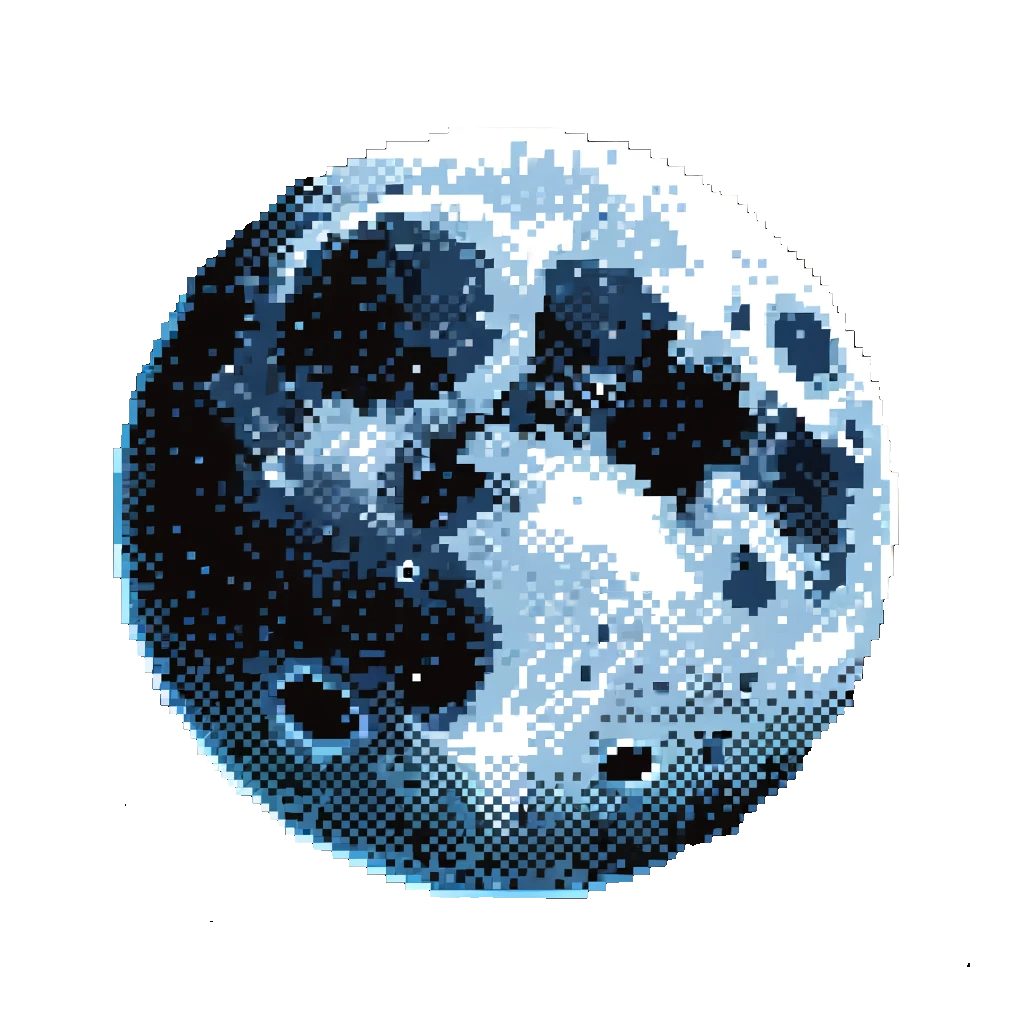
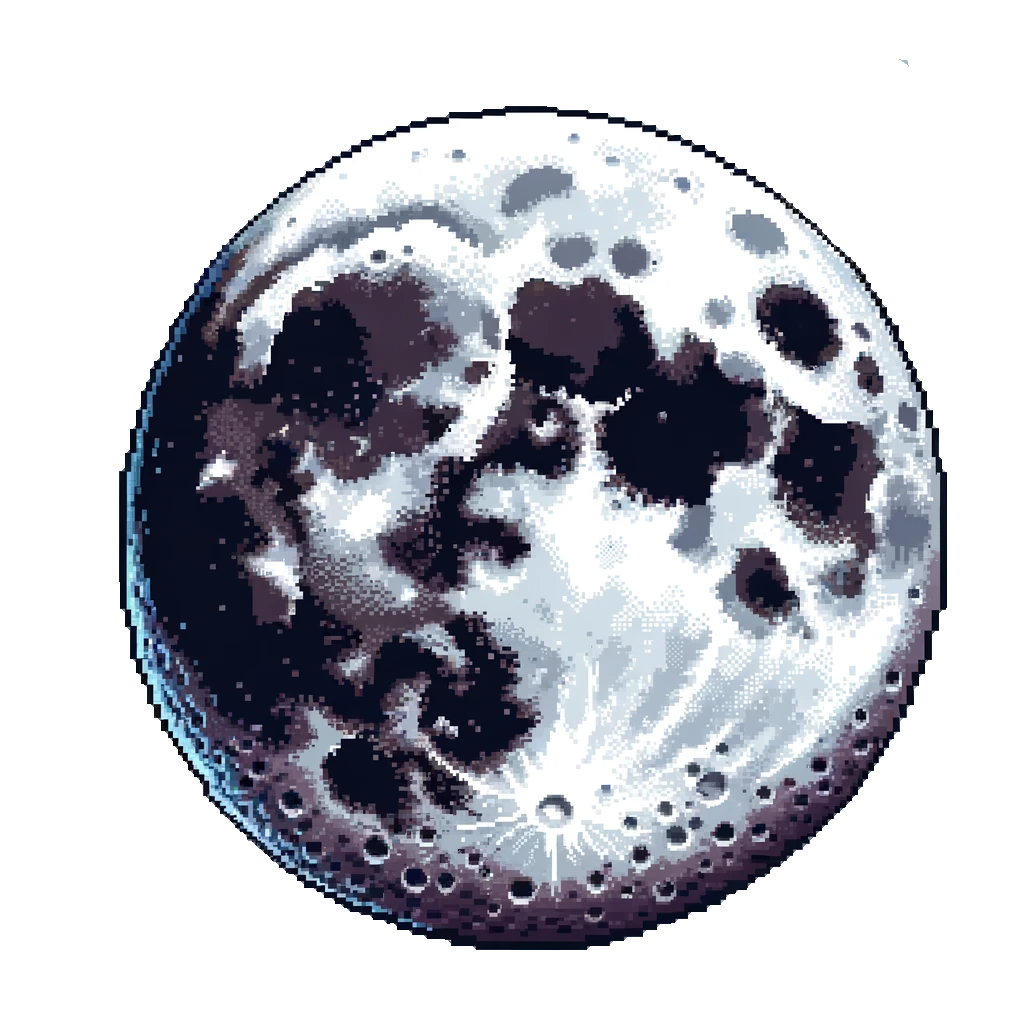
added alienShip v2 to assets / +moon v2

diff --git a/assets/js/game.js b/assets/js/game.js
@@ -15,34 +15,35 @@ function create() {
     background2 = this.add.tileSprite(0, 0, window.innerWidth, window.innerHeight, 'background2').setOrigin(0, 0).setDepth(-3);
 
     // Earth
-    let earthX = window.innerWidth * 0.5; 
-    let earthY = window.innerHeight * 0.5;
+    let earthX = window.innerWidth * 0.47; 
+    let earthY = window.innerHeight * 0.65;
     this.earth = this.add.image(earthX, earthY, 'earth');
-    this.earth.setScale(0.34567);
+    this.earth.setScale(0.345);
     this.earth.setDepth(-3);
-
-    // Moon (initially off-screen)
-    let moonX = window.innerWidth + 100; // Start off-screen to the right
-    let moonY = window.innerHeight * 0.5;
-    this.moon = this.add.image(moonX, moonY, 'moon');
-    this.moon.setScale(0.2);
-    this.moon.setVisible(false); // Initially invisible
 
     // Earth zoom out and move left
     this.tweens.add({
         targets: this.earth,
         scale: 0.1, // Zoom out
-        x: -100, // Move off-screen to the left
+        x: -10, // Move off-screen to the left
         ease: 'Linear',
-        duration: 240000, // 4 minutes
+        duration: 30000//0, // 5 minutes
     });
 
-    // Delayed action to start moving the Moon in
-    this.time.delayedCall(240000, () => {
+    // Moon (initially off-screen)
+    let moonX = window.innerWidth + 100; // Start off-screen to the right
+    let moonY = window.innerHeight * 0.34;
+    this.moon = this.add.image(moonX, moonY, 'moon');
+    this.moon.setScale(0.234);
+    this.moon.setDepth(-3);
+    this.moon.setVisible(false); // Initially invisible
+
+    // Delayed action (5min) to start moving the Moon in
+    this.time.delayedCall(30000, () => {
         this.moon.setVisible(true);
         this.tweens.add({
             targets: this.moon,
-            x: window.innerWidth * 0.5, // Move to the center of the screen
+            x: window.innerWidth * 0.1, // Move to the center of the screen
             ease: 'Linear',
             duration: 60000, // 1 minute
         });
@@ -137,21 +138,21 @@ function create() {
     });
 
     this.asteroidTimer = this.time.addEvent({
-        delay: 8440,
+        delay: 4440,
         callback: spawnAsteroids,
         callbackScope: this,
         loop: true
     });
 
     this.asteroidClusterTimer = this.time.addEvent({
-        delay: 32400,
+        delay: 14400,
         callback: spawnAsteroidClusters,
         callbackScope: this,
         loop: true
     });
 
     this.asteroidPowerUpTimer = this.time.addEvent({
-        delay: 64340,
+        delay: 32340,
         callback: spawnAsteroidPowerUp,
         callbackScope: this,
         loop: true
@@ -366,7 +367,7 @@ function shootLaser() {
 }
 
 function spawnAsteroids() {
-    let asteroidSprite = Phaser.Math.RND.pick(['asteroid11', 'asteroid21', 'asteroid23']);
+    let asteroidSprite = Phaser.Math.RND.pick(['asteroid11', 'asteroid12', 'asteroid13', 'asteroid14', 'asteroid15']);
 
     let perimeterWidth = this.sys.game.config.width + 100;
     let perimeterHeight = this.sys.game.config.height + 100;
@@ -396,7 +397,7 @@ function spawnAsteroids() {
     if (asteroid) {
         asteroid.setActive(true).setVisible(true).setScale(0.34);;
 
-        let asteroidSpeed = 80; 
+        let asteroidSpeed = 50; 
         let angle = Phaser.Math.Angle.Between(x, y, this.player.x, this.player.y);
         let velocityX = Math.cos(angle) * asteroidSpeed;
         let velocityY = Math.sin(angle) * asteroidSpeed;
@@ -406,6 +407,8 @@ function spawnAsteroids() {
         asteroid.setData('initialPosition', {x: x, y: y});
         asteroid.body.setImmovable(true);
         asteroid.hitCount = 3;
+
+        asteroid.body.setAngularVelocity(Phaser.Math.Between(-34, 34)); // Adjust range as needed
     }
 }
 
@@ -488,7 +491,7 @@ function spawnAsteroidPowerUp() {
             break;
     }
 
-    let asteroidPowerUp = asteroids.get(x, y, 'asteroid43');
+    let asteroidPowerUp = asteroids.get(x, y, 'asteroid33');
     if (asteroidPowerUp) {
         asteroidPowerUp.setActive(true).setVisible(true).setScale(0.34);
         asteroidPowerUp.body.setVelocity(velocityX, velocityY);
@@ -547,7 +550,7 @@ function laserAsteroidCollision(laser, asteroid) {
 
     asteroid.hitCount -= 1;
     if (asteroid.hitCount <= 0) {
-        if (asteroid.texture.key === 'asteroid43') {
+        if (asteroid.texture.key === 'asteroid33') {
             explodeAsteroid.call(this, asteroid, true); // Power-up asteroid
         } else {
             explodeAsteroid.call(this, asteroid); // Regular asteroid
@@ -562,7 +565,7 @@ function laserAsteroidCollision(laser, asteroid) {
 }
 
 function explodeAsteroid(asteroid, isPowerUp = false) {
-    let explosionScale = 1.34;
+    let explosionScale = 1.54;
     let explosion = this.add.sprite(asteroid.x, asteroid.y, 'explosion1').play('explode');
     explosion.setScale(explosionScale);
     explosion.on('animationcomplete', () => {

diff --git a/assets/js/preload.js b/assets/js/preload.js
@@ -11,10 +11,22 @@ function preload() {
     this.load.image('shieldIcon', 'assets/images/extras/shieldIcon.png');
     this.load.image('shield', 'assets/images/extras/shield.png');
 
-    this.load.image('laser1', 'assets/images/lasers/laser1.png');
-    this.load.image('laser2', 'assets/images/lasers/laser2.png');
-    this.load.image('laser3', 'assets/images/lasers/laser3.png');
-    this.load.image('laser4', 'assets/images/lasers/laser4.png');
+    this.load.image('alienShip10', 'assets/images/alienShip/alienShip10.png');
+    this.load.image('alienShip11', 'assets/images/alienShip/alienShip11.png');
+    this.load.image('alienShip12', 'assets/images/alienShip/alienShip12.png');
+    this.load.image('alienShip21', 'assets/images/alienShip/alienShip21.png');
+    this.load.image('alienShip22', 'assets/images/alienShip/alienShip22.png');
+    this.load.image('alienShip30', 'assets/images/alienShip/alienShip30.png');
+    this.load.image('alienShip31', 'assets/images/alienShip/alienShip31.png');
+    this.load.image('alienShip32', 'assets/images/alienShip/alienShip32.png');
+    this.load.image('alienShip41', 'assets/images/alienShip/alienShip41.png');
+    this.load.image('alienShip42', 'assets/images/alienShip/alienShip42.png');
+    this.load.image('alienShip51', 'assets/images/alienShip/alienShip51.png');
+
+    this.load.image('laser1', 'assets/images/lasers/laser1.png'); // orange
+    this.load.image('laser2', 'assets/images/lasers/laser2.png'); // red
+    this.load.image('laser3', 'assets/images/lasers/laser3.png'); // blue
+    this.load.image('laser4', 'assets/images/lasers/laser4.png'); // green
 
     this.load.image('powerUp1', 'assets/images/powerups/powerUp1.png'); // + HEART
     this.load.image('powerUp2', 'assets/images/powerups/powerUp2.png'); // + SHIELD
@@ -38,7 +50,7 @@ function preload() {
     this.load.image('asteroid24', 'assets/images/asteroids/asteroid24.png');
     this.load.image('asteroid25', 'assets/images/asteroids/asteroid25.png');
     this.load.image('asteroid26', 'assets/images/asteroids/asteroid26.png');
-    this.load.image('asteroid43', 'assets/images/asteroids/asteroid43.png');
+    this.load.image('asteroid33', 'assets/images/asteroids/asteroid33.png');
 
     this.load.image('explosion1', 'assets/images/explosion/explosion1.png');
     this.load.image('explosion2', 'assets/images/explosion/explosion2.png');
